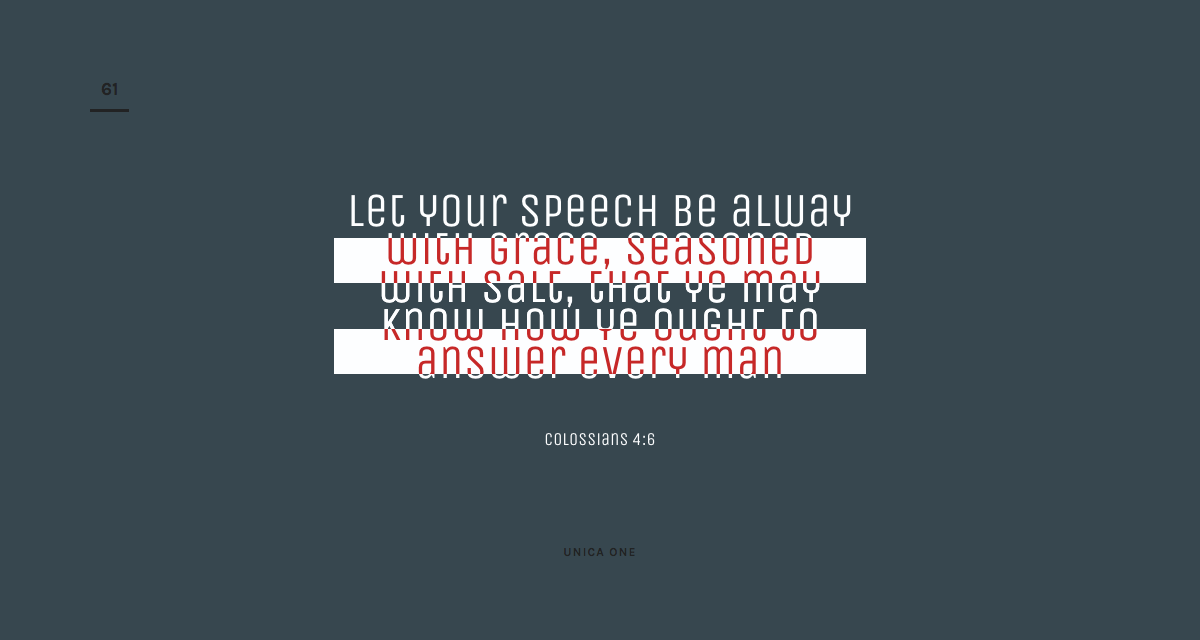
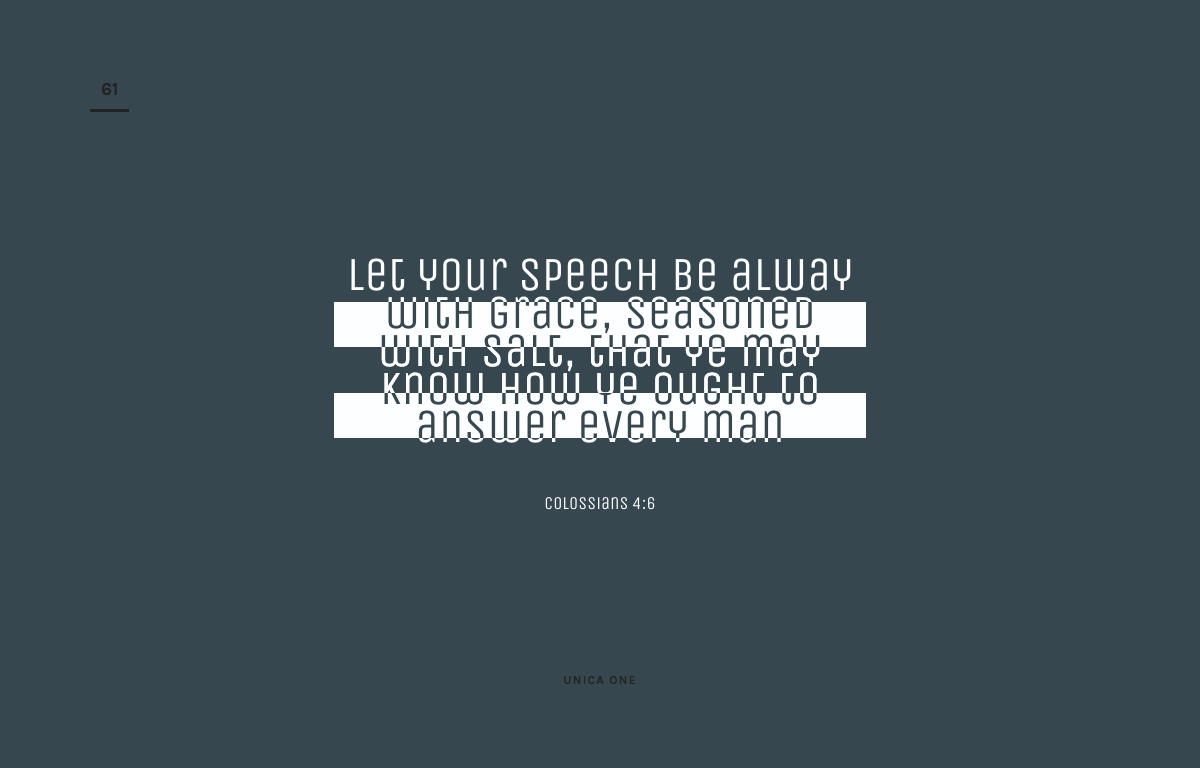
Day 61 remove red.

diff --git a/index.html b/index.html
@@ -8,7 +8,7 @@
 
   <meta name="fontsCSS" content="//fonts.googleapis.com/css?family=Karla:400,700|Playfair+Display:400,400italic,700,700italic,900|Unica+One|Megrim|Titillium+Web:900|Rubik|EB+Garamond|Kaushan+Script|Chivo|Cutive+Mono|Trocchi|Montserrat+Subrayada|Rock+Salt|Monoton|Playfair+Display+SC:700italic|Poppins|Cinzel|Work+Sans:600|Domine|Suranna|Yantramanav:900|Montserrat+Alternates|Istok+Web:400,700|Sacramento|Questrial|Vidaloka|Source+Sans+Pro:400,900|Neuton|Oxygen:700|VT323|Chonburi|Josefin+Slab|Droid+Serif|Exo|Lustria|Permanent+Marker|Vollkorn:400,400italic|Arimo|Londrina+Sketch|Francois+One|Bangers|Patrick+Hand|League+Script|Quicksand|Prata|Fira+Sans:500|Amiri:400,700|Fjalla+One|Arapey|Hind:700|Gentium+Book+Basic:400,700|Share+Tech+Mono|PT+Serif:400,700italic|Montserrat|Inconsolata:700|Codystar|Old+Standard+TT:400,400italic|Oswald:300,400|Ovo|Lato:100,400|Libre+Baskerville:400italic|Vast+Shadow|Amatic+SC|PT+Mono|Abril+Fatface|Roboto:100,300|Crimson+Text:400,400italic,700|Glegoo:400,700">
   <style>
-    @charset "UTF-8";a,aside,b,blockquote,body,cite,div,em,figcaption,figure,footer,h1,h2,h3,h4,h5,h6,header,html,i,img,li,nav,ol,p,q,section,small,span,strong,sub,sup,time,ul{font:inherit;vertical-align:baseline;border:0;padding:0;margin:0}.about-description,.container,.day-scripture{margin-left:auto;margin-right:auto}.day-info,.day-number,b,strong{font-weight:700}.about-title-head,.about-title-tail,em,i{font-style:italic}article,aside,details,figcaption,figure,footer,header,nav,section{display:block}body{line-height:1;font-family:KarlaLocal,"Open Sans",Helvetica,Arial,sans-serif;color:#222324;text-rendering:optimizeLegibility;-webkit-font-variant-ligatures:common-ligatures;font-variant-ligatures:common-ligatures;-webkit-font-feature-settings:"liga";font-feature-settings:"liga"}ol,ul{list-style:none}blockquote,q{quotes:none}blockquote:after,blockquote:before,q:after,q:before{content:'';content:none}@font-face{font-family:KarlaLocal;font-weight:400;font-style:normal;src:local("Karla"),local("Karla-Regular")}@font-face{font-family:KarlaLocal;font-weight:700;font-style:normal;src:local("Karla"),local("Karla-Bold")}@font-face{font-family:PlayfairDisplayLocal;font-weight:400;font-style:normal;src:local("Playfair Display"),local("PlayfairDisplay-Regular")}@font-face{font-family:PlayfairDisplayLocal;font-weight:700;font-style:normal;src:local("Playfair Display"),local("PlayfairDisplay-Bold")}@font-face{font-family:PlayfairDisplayLocal;font-weight:700;font-style:italic;src:local("Playfair Display"),local("PlayfairDisplay-BoldItalic")}.fonts-loaded-100 body{font-family:Karla,KarlaLocal,"Open Sans",Helvetica,Arial,sans-serif}.fonts-timeout-100 body{font-family:KarlaLocal,Karla,"Open Sans",Helvetica,Arial,sans-serif}a{color:#3498db;text-decoration:none}.footer,.footer a{color:#fdfeff}a:hover{text-decoration:underline}.container{max-width:64em}.footer{font-size:.875em;text-align:center;background-color:#222324;padding-top:1.5625em;padding-bottom:1.5625em}@media only screen and (min-width:40em){.footer{padding-top:1.875em;padding-bottom:1.875em}}@media only screen and (min-width:52em){.footer{padding-top:2.5em;padding-bottom:2.5em}}.day-number{color:#222324;text-align:center;border-bottom:3px solid #222324;display:inline-block;width:2.1875em;padding-bottom:.625em;margin-bottom:3.5em}.day--14 .day-number,.day--15 .day-number,.day--2 .day-number,.day--5 .day-number,.day--9 .day-number,.day-number--white{color:#fdfeff;border-bottom-color:#fdfeff}.day-scripture{max-width:80em}.day-scripture::after{clear:both;content:"";display:table}.day-info{font-size:.75em;letter-spacing:.1em;text-transform:uppercase;text-align:center;margin-top:5.33333em}.day-reference{display:block}.day-font{color:#8a8b8c;line-height:1.4}.day-font-link{color:#222324}.about,.day{overflow:hidden;padding:2.5em .9375em}@media only screen and (min-width:30em){.about,.day{padding:3.125em 1.875em}.day-number{margin-bottom:4.0625em}.day-info{margin-top:6.25em}}@media only screen and (min-width:40em){.about,.day{padding:3.75em 3.4375em}.day-number{font-size:1.0625em;margin-bottom:4.23529em}.day-info{margin-top:7em}}@media only screen and (min-width:52em){.about,.day{padding:4.375em 4.6875em}.day-number{margin-bottom:4.8125em}.day-info{margin-top:7.58333em}}@media only screen and (min-width:64em){.about,.day{padding:5em 5.625em}.day-number{font-size:1.125em;margin-bottom:4.44444em}.day-info{margin-top:8em}}.about{background-color:#f2f3f4}.about-title-wrap{text-align:center}.about-title{font-family:PlayfairDisplayLocal,"Times New Roman",Times,serif;margin-bottom:1.25em}.fonts-loaded-100 .about-title{font-family:"Playfair Display",PlayfairDisplayLocal,"Times New Roman",Times,serif}.fonts-timeout-100 .about-title{font-family:PlayfairDisplayLocal,"Playfair Display","Times New Roman",Times,serif}.about-title-head{font-size:2.5em;font-weight:700;display:block}.about-title-tail{font-size:1em;letter-spacing:.22em;text-transform:uppercase;position:relative;left:.0625em}.about-description{color:#454647;line-height:1.3;letter-spacing:-.02em;max-width:31.25em}.about-description p:first-child{margin-bottom:.5em}.day--61{background-color:#37474f}.day--61 .day-scripture{padding-top:1em;padding-bottom:1em}@media only screen and (min-width:30em){.day--61 .day-scripture{padding-top:2em;padding-bottom:2em}}@media only screen and (min-width:40em){.container--about{display:-webkit-flex;display:-ms-flexbox;display:flex;-webkit-justify-content:center;-ms-flex-pack:center;justify-content:center}.about-title-wrap{text-align:right;-webkit-flex:0 0 13.125em;-ms-flex:0 0 13.125em;flex:0 0 13.125em;margin-right:3.125em}.about-description{-webkit-flex:1;-ms-flex:1;flex:1;max-width:25em;margin-left:0;margin-right:0}.about-title{margin-top:-.9375em;margin-bottom:0}.about-title-head{font-size:3em}.about-title-tail{font-size:1.1875em;letter-spacing:.23em;left:.18421em}.day--61 .day-scripture{padding-top:3em;padding-bottom:3em}}.day--61 .day-text{font-family:"Unica One",sans-serif;text-align:center;-moz-osx-font-smoothing:grayscale;-webkit-font-smoothing:antialiased}.day--61 .day-reference{margin-top:2em}@media only screen and (min-width:52em){.about-title-head{font-size:4em}.about-title-tail{font-size:1.375em;letter-spacing:.355em;left:.27273em}.about-title-wrap{-webkit-flex-basis:16.875em;-ms-flex-preferred-size:16.875em;flex-basis:16.875em;margin-right:4.375em}.day--61 .day-scripture{padding-top:4em;padding-bottom:4em}.day--61 .day-reference{margin-top:3em}}.day--61 .day-reference-link{color:#fdfeff}@media only screen and (min-width:30em){.day--61 .day-reference-link{font-size:1.0625em}}@media only screen and (min-width:40em){.day--61 .day-reference-link{font-size:1.125em}}.day-61-container{width:17.5em;display:inline-block;position:relative}@media only screen and (min-width:30em){.day-61-container{font-size:1.3em}}@media only screen and (min-width:40em){.day-61-container{font-size:1.5em}}@media only screen and (min-width:52em){.day-61-container{font-size:1.7em}}@media only screen and (min-width:64em){.day-61-container{font-size:1.9em}}.day-61-text-wrap{font-size:1.5625em;color:#fdfeff;line-height:.8;width:100%;height:.96em;position:absolute;left:0;overflow:hidden}.day-61-text{display:block;position:relative}.day-61-text-wrap--1{position:relative;overflow:inherit;height:auto}.day-61-text-wrap--2{top:.96em}.day-61-text-wrap--2 .day-61-text{top:-.96em}.day-61-text-wrap--3{top:1.92em}.day-61-text-wrap--3 .day-61-text{top:-1.92em}.day-61-text-wrap--4{top:2.88em}.day-61-text-wrap--4 .day-61-text{top:-2.88em}.day-61-text-wrap--2 .day-61-text,.day-61-text-wrap--4 .day-61-text{background-color:#fdfeff;color:#c62828}
+    @charset "UTF-8";a,aside,b,blockquote,body,cite,div,em,figcaption,figure,footer,h1,h2,h3,h4,h5,h6,header,html,i,img,li,nav,ol,p,q,section,small,span,strong,sub,sup,time,ul{font:inherit;vertical-align:baseline;border:0;padding:0;margin:0}.about-description,.container,.day-scripture{margin-left:auto;margin-right:auto}.day-info,.day-number,b,strong{font-weight:700}.about-title-head,.about-title-tail,em,i{font-style:italic}article,aside,details,figcaption,figure,footer,header,nav,section{display:block}body{line-height:1;font-family:KarlaLocal,"Open Sans",Helvetica,Arial,sans-serif;color:#222324;text-rendering:optimizeLegibility;-webkit-font-variant-ligatures:common-ligatures;font-variant-ligatures:common-ligatures;-webkit-font-feature-settings:"liga";font-feature-settings:"liga"}ol,ul{list-style:none}blockquote,q{quotes:none}blockquote:after,blockquote:before,q:after,q:before{content:'';content:none}@font-face{font-family:KarlaLocal;font-weight:400;font-style:normal;src:local("Karla"),local("Karla-Regular")}@font-face{font-family:KarlaLocal;font-weight:700;font-style:normal;src:local("Karla"),local("Karla-Bold")}@font-face{font-family:PlayfairDisplayLocal;font-weight:400;font-style:normal;src:local("Playfair Display"),local("PlayfairDisplay-Regular")}@font-face{font-family:PlayfairDisplayLocal;font-weight:700;font-style:normal;src:local("Playfair Display"),local("PlayfairDisplay-Bold")}@font-face{font-family:PlayfairDisplayLocal;font-weight:700;font-style:italic;src:local("Playfair Display"),local("PlayfairDisplay-BoldItalic")}.fonts-loaded-100 body{font-family:Karla,KarlaLocal,"Open Sans",Helvetica,Arial,sans-serif}.fonts-timeout-100 body{font-family:KarlaLocal,Karla,"Open Sans",Helvetica,Arial,sans-serif}a{color:#3498db;text-decoration:none}.footer,.footer a{color:#fdfeff}a:hover{text-decoration:underline}.container{max-width:64em}.footer{font-size:.875em;text-align:center;background-color:#222324;padding-top:1.5625em;padding-bottom:1.5625em}@media only screen and (min-width:40em){.footer{padding-top:1.875em;padding-bottom:1.875em}}@media only screen and (min-width:52em){.footer{padding-top:2.5em;padding-bottom:2.5em}}.day-number{color:#222324;text-align:center;border-bottom:3px solid #222324;display:inline-block;width:2.1875em;padding-bottom:.625em;margin-bottom:3.5em}.day--14 .day-number,.day--15 .day-number,.day--2 .day-number,.day--5 .day-number,.day--9 .day-number,.day-number--white{color:#fdfeff;border-bottom-color:#fdfeff}.day-scripture{max-width:80em}.day-scripture::after{clear:both;content:"";display:table}.day-info{font-size:.75em;letter-spacing:.1em;text-transform:uppercase;text-align:center;margin-top:5.33333em}.day-reference{display:block}.day-font{color:#8a8b8c;line-height:1.4}.day-font-link{color:#222324}.about,.day{overflow:hidden;padding:2.5em .9375em}@media only screen and (min-width:30em){.about,.day{padding:3.125em 1.875em}.day-number{margin-bottom:4.0625em}.day-info{margin-top:6.25em}}@media only screen and (min-width:40em){.about,.day{padding:3.75em 3.4375em}.day-number{font-size:1.0625em;margin-bottom:4.23529em}.day-info{margin-top:7em}}@media only screen and (min-width:52em){.about,.day{padding:4.375em 4.6875em}.day-number{margin-bottom:4.8125em}.day-info{margin-top:7.58333em}}@media only screen and (min-width:64em){.about,.day{padding:5em 5.625em}.day-number{font-size:1.125em;margin-bottom:4.44444em}.day-info{margin-top:8em}}.about{background-color:#f2f3f4}.about-title-wrap{text-align:center}.about-title{font-family:PlayfairDisplayLocal,"Times New Roman",Times,serif;margin-bottom:1.25em}.fonts-loaded-100 .about-title{font-family:"Playfair Display",PlayfairDisplayLocal,"Times New Roman",Times,serif}.fonts-timeout-100 .about-title{font-family:PlayfairDisplayLocal,"Playfair Display","Times New Roman",Times,serif}.about-title-head{font-size:2.5em;font-weight:700;display:block}.about-title-tail{font-size:1em;letter-spacing:.22em;text-transform:uppercase;position:relative;left:.0625em}.about-description{color:#454647;line-height:1.3;letter-spacing:-.02em;max-width:31.25em}.about-description p:first-child{margin-bottom:.5em}.day--61{background-color:#37474f}.day--61 .day-scripture{padding-top:1em;padding-bottom:1em}@media only screen and (min-width:30em){.day--61 .day-scripture{padding-top:2em;padding-bottom:2em}}@media only screen and (min-width:40em){.container--about{display:-webkit-flex;display:-ms-flexbox;display:flex;-webkit-justify-content:center;-ms-flex-pack:center;justify-content:center}.about-title-wrap{text-align:right;-webkit-flex:0 0 13.125em;-ms-flex:0 0 13.125em;flex:0 0 13.125em;margin-right:3.125em}.about-description{-webkit-flex:1;-ms-flex:1;flex:1;max-width:25em;margin-left:0;margin-right:0}.about-title{margin-top:-.9375em;margin-bottom:0}.about-title-head{font-size:3em}.about-title-tail{font-size:1.1875em;letter-spacing:.23em;left:.18421em}.day--61 .day-scripture{padding-top:3em;padding-bottom:3em}}.day--61 .day-text{font-family:"Unica One",sans-serif;text-align:center;-moz-osx-font-smoothing:grayscale;-webkit-font-smoothing:antialiased}.day--61 .day-reference{margin-top:2em}@media only screen and (min-width:52em){.about-title-head{font-size:4em}.about-title-tail{font-size:1.375em;letter-spacing:.355em;left:.27273em}.about-title-wrap{-webkit-flex-basis:16.875em;-ms-flex-preferred-size:16.875em;flex-basis:16.875em;margin-right:4.375em}.day--61 .day-scripture{padding-top:4em;padding-bottom:4em}.day--61 .day-reference{margin-top:3em}}.day--61 .day-reference-link{color:#fdfeff}@media only screen and (min-width:30em){.day--61 .day-reference-link{font-size:1.0625em}}@media only screen and (min-width:40em){.day--61 .day-reference-link{font-size:1.125em}}.day-61-container{width:17.5em;display:inline-block;position:relative}@media only screen and (min-width:30em){.day-61-container{font-size:1.3em}}@media only screen and (min-width:40em){.day-61-container{font-size:1.5em}}@media only screen and (min-width:52em){.day-61-container{font-size:1.7em}}@media only screen and (min-width:64em){.day-61-container{font-size:1.9em}}.day-61-text-wrap{font-size:1.5625em;color:#fdfeff;line-height:.8;width:100%;height:.96em;position:absolute;left:0;overflow:hidden}.day-61-text{display:block;position:relative}.day-61-text-wrap--1{position:relative;overflow:inherit;height:auto}.day-61-text-wrap--2{top:.96em}.day-61-text-wrap--2 .day-61-text{top:-.96em}.day-61-text-wrap--3{top:1.92em}.day-61-text-wrap--3 .day-61-text{top:-1.92em}.day-61-text-wrap--4{top:2.88em}.day-61-text-wrap--4 .day-61-text{top:-2.88em}.day-61-text-wrap--2 .day-61-text,.day-61-text-wrap--4 .day-61-text{background-color:#fdfeff;color:#37474f}
   </style>
   <meta name="mainCSS" content="assets/css/screen.css?20151002">
 

diff --git a/assets/sass/days/_061.scss b/assets/sass/days/_061.scss
@@ -3,7 +3,6 @@
 // ==================================================
 $day-61-font: "Unica One", sans-serif;
 $day-61-grey: #37474f;
-$day-61-red : #c62828;
 
 .day--61 {
 	background-color: $day-61-grey;
@@ -120,6 +119,6 @@ $day-61-font-size: 25;
 .day-61-text-wrap--4 {
 	.day-61-text {
 		background-color: $white;
-		color: $day-61-red;
+		color: $day-61-grey;
 	}
 }
